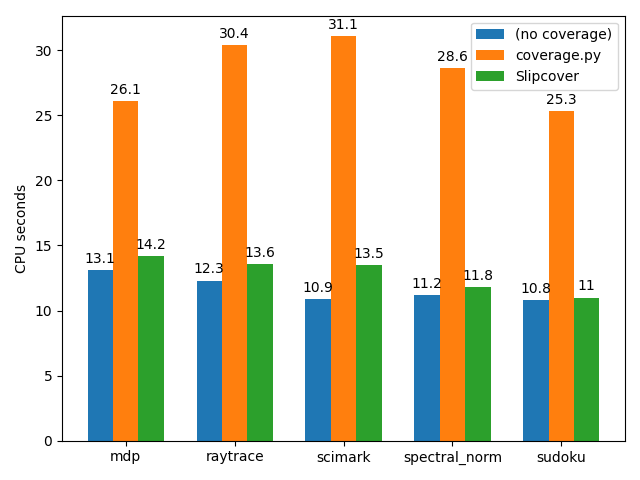
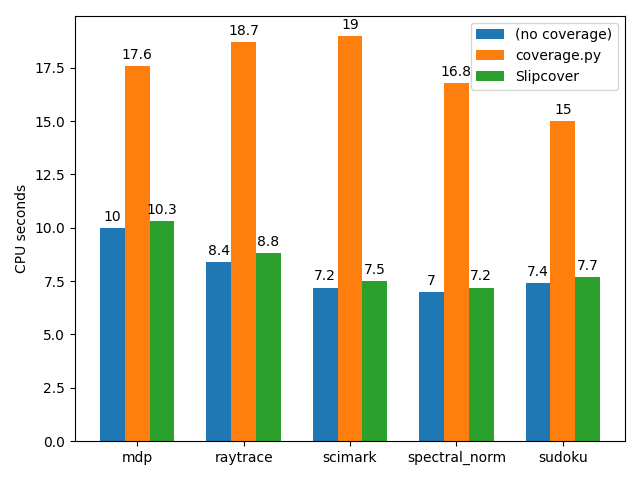
- switched over to using Linux benchmarks;

diff --git a/README.md b/README.md
@@ -39,8 +39,8 @@ tracking, tracking coverage using [coverage.py](https://github.com/nedbat/covera
 and tracking coverage using Slipcover.
 While each program's structure can affect Slipcover's ability to de-instrument,
 its running time stays relatively close to the original;
-coverage.py incurs between 85% and 184% overhead, while
-Slipcover's stays between 1.9% and 23.2%.
+coverage.py incurs between 77% and 166% overhead, while
+Slipcover's stays between 3% and 5%.
 
 Most sample programs were derived from the
 [Python Benchmark Suite](https://github.com/python/pyperformance);
